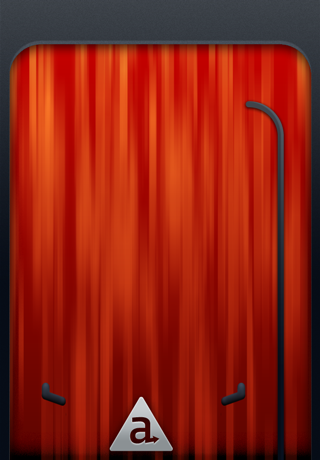
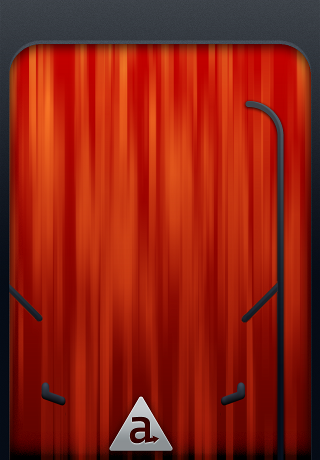
Added side deflectors

diff --git a/Resources/world.js b/Resources/world.js
@@ -84,6 +84,25 @@
             top: 15
         });
         
+        // The deflector to aim the ball so it moves into the game board
+        var LsideDeflector = Ti.UI.createView({
+            backgroundColor: "transparent",
+            width: 40,
+            left:8,
+            height: 2,
+            top: 280
+        });
+        
+        // The deflector to aim the ball so it moves into the game board
+        var RsideDeflector = Ti.UI.createView({
+            backgroundColor: "transparent",
+            width: 40,
+            right:45,
+            height: 2,
+            top: 280
+        });
+        
+        
         // The first gutter so the ball rolls to the flippers
         var gutter1 = Ti.UI.createView({
             backgroundColor: "transparent",
@@ -214,6 +233,22 @@
         });
         app.world.wallCorner.setAngle(0.2);
         
+        app.world.LsideDeflector = world.addBody(LsideDeflector, {
+            density: 10.0,
+            friction: 0.3,
+            restitution: 0.4,
+            type: "static"          
+        });
+        app.world.LsideDeflector.setAngle(-0.7);
+        
+        app.world.RsideDeflector = world.addBody(RsideDeflector, {
+            density: 10.0,
+            friction: 0.3,
+            restitution: 0.4,
+            type: "static"          
+        });
+        app.world.RsideDeflector.setAngle(0.7);
+        
         // add body to the world
         app.world.shootRef = world.addBody(shoot, {
             density: 1.0,
@@ -269,7 +304,7 @@
         app.world.flipperRightRef = world.addBody(flipperR, {
             density: 10.0,
             friction: 0.3,
-            restitution: 1.2,
+            restitution: 1.0,
             type: "dynamic"
         });
         
@@ -277,7 +312,7 @@
         app.world.flipperLeftRef = world.addBody(flipperL, {
             density: 10.0,
             friction: 0.3,
-            restitution: 1.2,
+            restitution: 1.0,
             type: "dynamic"
         });
         
